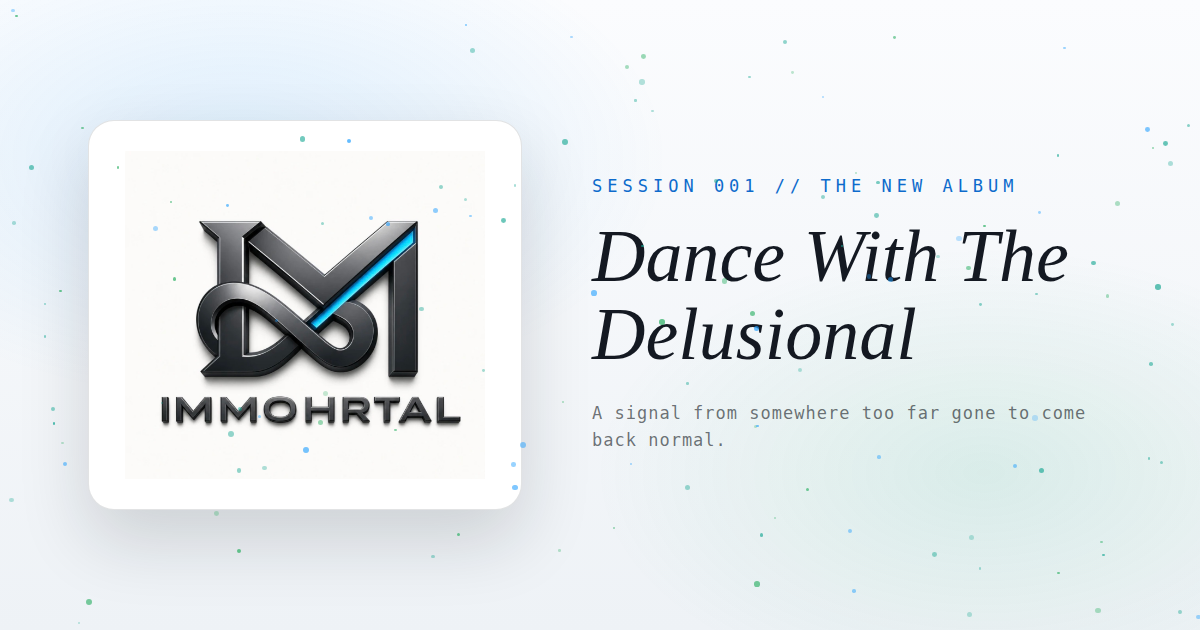
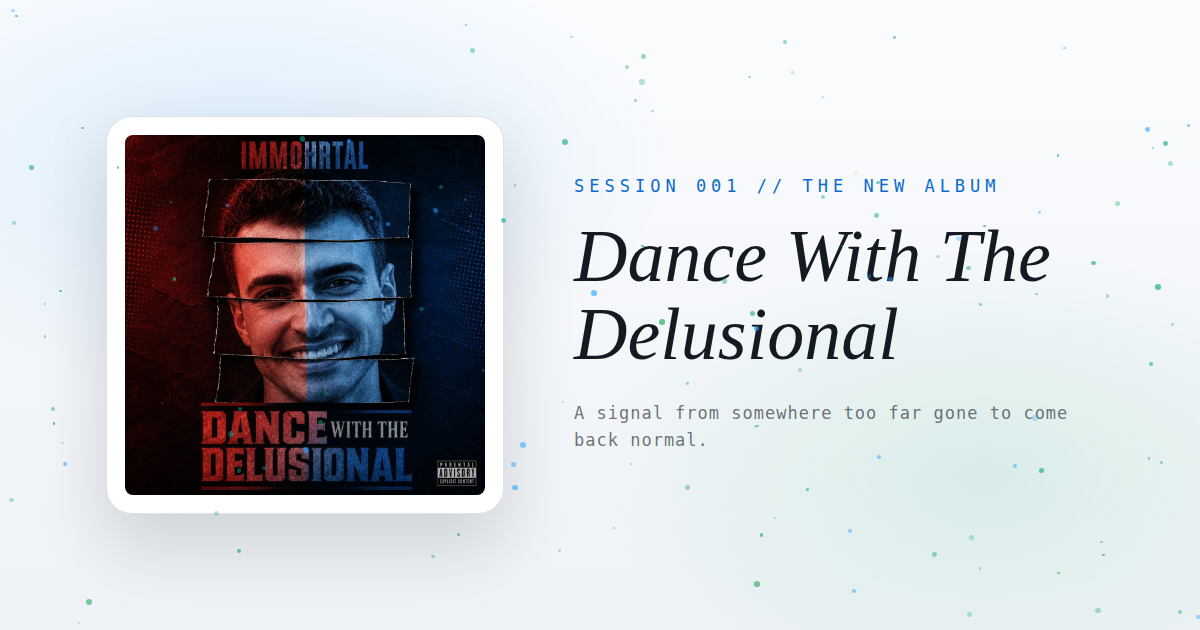
Add real album cover and the shot photo, absolute OG URLs
- public/cover.jpg: the Dance With The Delusional cover art, wired
  into the Listen section and the og.png share image
- public/artist.jpg: the shot in the hero photo box, 4:3 crop biased
  to the face
- Canonical + absolute og:image/og:url for immohrtal-site.netlify.app;
  JSON-LD album image points at the real cover

Claude-Session: https://claude.ai/code/session_01Eik1HPL3SUnSXTxSrTmPhG

diff --git a/immohrtal-site/index.html b/immohrtal-site/index.html
@@ -11,13 +11,15 @@
     <meta property="og:site_name" content="IMMOHRTAL" />
     <meta property="og:title" content="IMMOHRTAL | Dance With The Delusional" />
     <meta property="og:description" content="A duality-driven rap project about the executive brain, artist heart, lyrical craft, and real storytelling." />
-    <meta property="og:image" content="./og.png" />
+    <link rel="canonical" href="https://immohrtal-site.netlify.app/" />
+    <meta property="og:url" content="https://immohrtal-site.netlify.app/" />
+    <meta property="og:image" content="https://immohrtal-site.netlify.app/og.png" />
     <meta property="og:image:width" content="1200" />
     <meta property="og:image:height" content="630" />
     <meta name="twitter:card" content="summary_large_image" />
     <meta name="twitter:title" content="IMMOHRTAL | Dance With The Delusional" />
     <meta name="twitter:description" content="Dillon Mohr builds his first professional record around duality, real rap, lyrical storytelling, and replay value." />
-    <meta name="twitter:image" content="./og.png" />
+    <meta name="twitter:image" content="https://immohrtal-site.netlify.app/og.png" />
     <script type="application/ld+json">
       {
         "@context": "https://schema.org",
@@ -47,7 +49,7 @@
             "albumProductionType": "StudioAlbum",
             "byArtist": { "@id": "https://immohrtal-site.netlify.app/#artist" },
             "numTracks": 10,
-            "image": "./og.png",
+            "image": "https://immohrtal-site.netlify.app/cover.jpg",
             "keywords": ["IMMOHRTAL", "Dillon Mohr rapper", "Dance With The Delusional", "underground rap 2026", "new rappers 2026", "lyrical rap", "real rap", "storytelling rap", "authentic rap", "duality album"]
           }
         ]

diff --git a/immohrtal-site/src/components/Hero.tsx b/immohrtal-site/src/components/Hero.tsx
@@ -52,7 +52,13 @@ function HeroPhoto() {
       <TiltBox max={6}>
         <span className="pop-box block">
           {artist.heroImage ? (
-            <img src={artist.heroImage} alt={`${artist.name} portrait`} className="block h-auto w-full" loading="lazy" />
+            <img
+              src={artist.heroImage}
+              alt={`${artist.name} portrait`}
+              className="block aspect-[4/3] w-full object-cover"
+              style={{ objectPosition: '50% 22%' }}
+              loading="lazy"
+            />
           ) : (
             <span className="artist-slot artist-slot-neutral flex aspect-[16/10] w-full flex-col items-center justify-center gap-4 px-6">
               <span className="split-lines" aria-hidden="true" />

diff --git a/immohrtal-site/src/content/album.ts b/immohrtal-site/src/content/album.ts
@@ -15,9 +15,9 @@ export const artist = {
   tagline: 'Two sides, one record. The executive brain and the artist heart finally in the same room.',
   sessionTag: 'SESSION 001 // DANCE WITH THE DELUSIONAL',
   releaseTag: 'OUT NOW ON ALL PLATFORMS',
-  coverArt: null as string | null,
+  coverArt: 'cover.jpg' as string | null,
   logo: 'logo-web.jpg' as string | null,
-  heroImage: null as string | null,
+  heroImage: 'artist.jpg' as string | null,
 }
 
 export interface Track {
